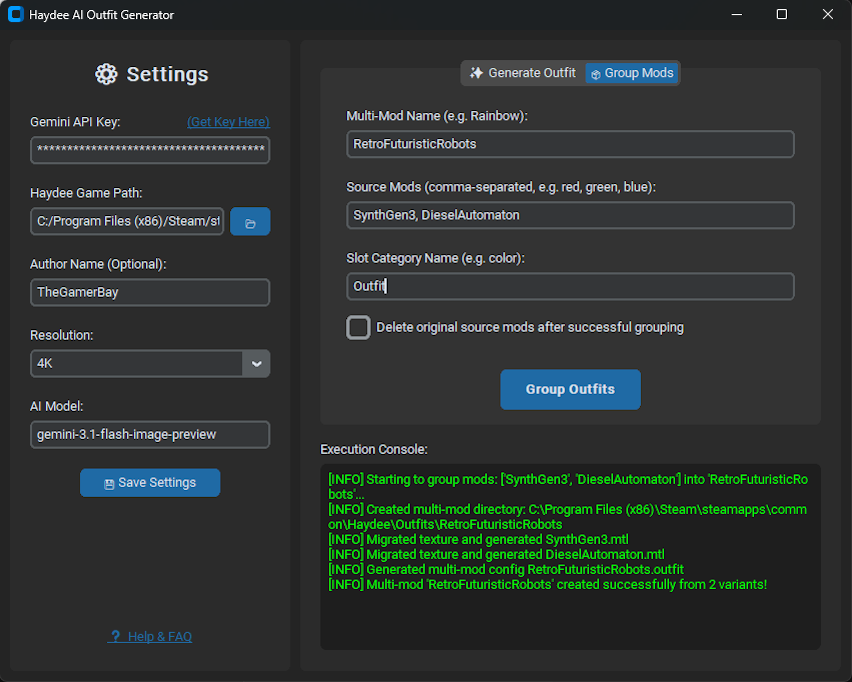
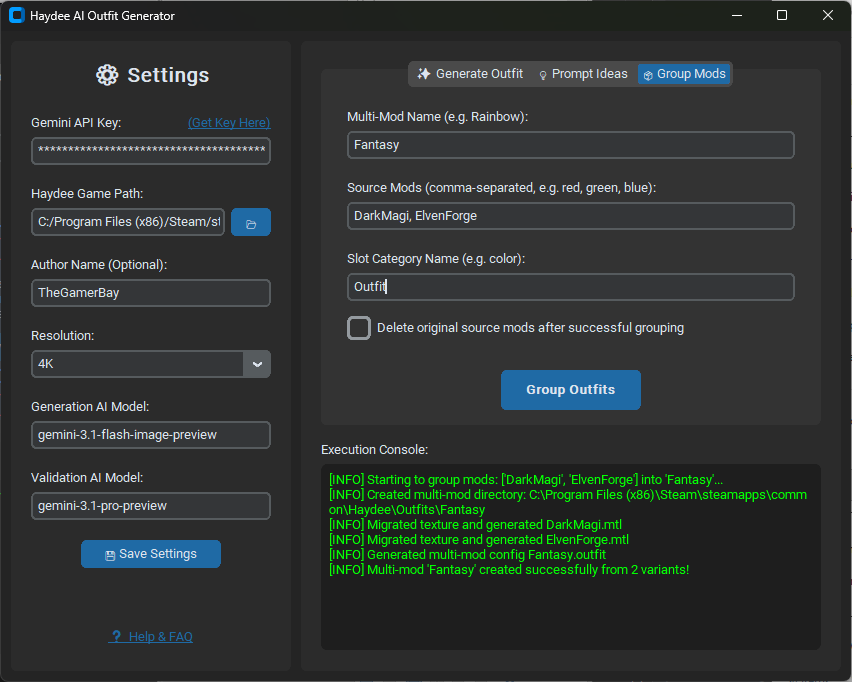
feat(app): add QA validation feedback loop and update GUI previews in README
- Introduce a QA feedback loop to validate AI-generated textures, retrying up to 3 times if issues are detected.
- Add "Validation AI Model" configuration to settings with default value.
- Update README and translated versions to reflect validation workflow and new "Prompt Ideas" preview image.
- Extend tests to cover texture validation logic.

diff --git a/src/app.py b/src/app.py
@@ -539,7 +539,42 @@ Do not include any other text, markdown formatting, or explanation. Just the raw
                     if not base_dds.exists():
                         raise FileNotFoundError(f"Base texture not found at {base_dds}. Please verify your game path.")
                     ImageProcessor.dds_to_png(base_dds, base_png)
-                    client.generate_texture(base_image_path=base_png, style=style, output_path=generated_d_png)
+                    
+                    # --- ДОБАВЛЕННЫЙ ЦИКЛ ВАЛИДАЦИИ (QA FEEDBACK LOOP) ---
+                    max_attempts = 3
+                    attempt = 1
+                    feedback = None
+                    is_valid = False
+
+                    while attempt <= max_attempts:
+                        self.logger.info(f"Generation attempt {attempt}/{max_attempts}...")
+                        
+                        client.generate_texture(
+                            base_image_path=base_png, 
+                            style=style, 
+                            output_path=generated_d_png,
+                            previous_feedback=feedback
+                        )
+
+                        validation_result = client.validate_texture(
+                            base_image_path=base_png,
+                            generated_image_path=generated_d_png, 
+                            style=style
+                        )
+
+                        if validation_result.is_valid:
+                            self.logger.info("✅ Texture passed QA validation!")
+                            is_valid = True
+                            break
+                        else:
+                            self.logger.warning(f"❌ Texture validation failed: {validation_result.feedback}")
+                            feedback = validation_result.feedback
+                            attempt += 1
+
+                    if not is_valid:
+                        self.logger.error(f"⚠ Max retries ({max_attempts}) reached. Proceeding with the last generated texture, but it may contain structural flaws.")
+                    # -----------------------------------------------------
+
                     ImageProcessor.img_to_dds(generated_d_png, final_d_dds, resolution=res)
                 else:
                     if not final_d_dds.exists():

diff --git a/tests/test_app.py b/tests/test_app.py
@@ -275,6 +275,7 @@ def test_run_generator_thread_success(app, mocker):
     
     # Validation
     mock_client_instance.generate_texture.assert_called_once()
+    mock_client_instance.validate_texture.assert_called_once()
     assert mock_after.called
 
 def test_run_generator_thread_failure(app, mocker):

diff --git a/README.md b/README.md
@@ -12,8 +12,9 @@ A modern graphical user interface for the [Haydee AI Outfit Generator](https://g
 
 ### 📥 [Download the latest HaydeeOutfitGenerator.exe here](https://github.com/thegamerbay/haydee-ai-outfit-generator-gui/releases)
 
-![GUI Generate Outfit Preview](assets/gui-generate-outfit.png)
-![GUI Group Mods Preview](assets/gui-group-mods.png)
+<img src="assets/gui-generate-outfit.png" width="852" alt="GUI Generate Outfit Preview">
+<img src="assets/gui-prompt-ideas.png" width="852" alt="GUI Prompt Ideas Preview">
+<img src="assets/gui-group-mods.png" width="852" alt="GUI Group Mods Preview">
 
 ## 🖼 Generated Examples
 
@@ -35,6 +36,7 @@ Check out what you can create! The following outfits were generated using this t
 - **Three Unique Workflows**: Seamlessly switch between generating brand new outfits via AI, getting creative inspiration for your styles, and grouping your existing mods into single multi-mods.
 - **Granular Generation Control**: Individually toggle the generation of Diffuse (Color), Specular (Material/Gloss), and Normal (3D Bump) maps to save API requests or regenerate specific parts.
 - **Customizable AI Models**: Choose exactly which Gemini AI model processes your request (e.g., `gemini-3.1-flash-image-preview` or other supported models).
+- **Quality Assurance Loop**: Automatically validates the AI-generated textures for structural flaws (like incorrect anatomy or seams) using a more advanced model, and sends feedback to the AI to re-draw it up to 3 times before saving.
 - **Network Resilience**: Built-in 10-minute SDK timeout patches and automatic 3-attempt API retry loops ensure your generations don't fail due to temporary Google API server congestion or `503/504 Deadline Exceeded` errors.
 - **No Terminal Required**: Configures all paths and handles logging automatically.
 - **Asynchronous Processing**: The UI remains responsive while the outfit is being generated via AI or while mods are being grouped.
@@ -49,6 +51,7 @@ Check out what you can create! The following outfits were generated using this t
    - Path to your **Haydee** game installation directory.
    - Your **Author Name** (Optional, applied to all generated or grouped mods).
    - Your **AI Model** (Defaults to `gemini-3.1-flash-image-preview`).
+   - Your **Validation AI Model** (Defaults to `gemini-3.1-pro-preview`).
 4. Click **Save Settings**.
 5. Choose your workflow tab:
    - **✨ Generate Outfit**: Enter a unique mod name, a descriptive style prompt, and toggle which textures you want to generate (Diffuse, Specular, or Normal) before starting.

diff --git a/README.th.md b/README.th.md
@@ -12,8 +12,9 @@
 
 ### 📥 [ดาวน์โหลด HaydeeOutfitGenerator.exe เวอร์ชันล่าสุดได้ที่นี่](https://github.com/thegamerbay/haydee-ai-outfit-generator-gui/releases)
 
-![GUI Generate Outfit Preview](assets/gui-generate-outfit.png)
-![GUI Group Mods Preview](assets/gui-group-mods.png)
+<img src="assets/gui-generate-outfit.png" width="852" alt="GUI Generate Outfit Preview">
+<img src="assets/gui-prompt-ideas.png" width="852" alt="GUI Prompt Ideas Preview">
+<img src="assets/gui-group-mods.png" width="852" alt="GUI Group Mods Preview">
 
 ## 🖼 ตัวอย่างที่ถูกสร้างขึ้น
 

diff --git a/README.es.md b/README.es.md
@@ -12,8 +12,9 @@ Una interfaz gráfica de usuario moderna para la biblioteca [Haydee AI Outfit Ge
 
 ### 📥 [Descarga la última versión de HaydeeOutfitGenerator.exe aquí](https://github.com/thegamerbay/haydee-ai-outfit-generator-gui/releases)
 
-![GUI Generate Outfit Preview](assets/gui-generate-outfit.png)
-![GUI Group Mods Preview](assets/gui-group-mods.png)
+<img src="assets/gui-generate-outfit.png" width="852" alt="GUI Generate Outfit Preview">
+<img src="assets/gui-prompt-ideas.png" width="852" alt="GUI Prompt Ideas Preview">
+<img src="assets/gui-group-mods.png" width="852" alt="GUI Group Mods Preview">
 
 ## 🖼 Ejemplos Generados
 

diff --git a/README.ru.md b/README.ru.md
@@ -12,8 +12,9 @@
 
 ### 📥 [Скачать последнюю версию HaydeeOutfitGenerator.exe можно здесь](https://github.com/thegamerbay/haydee-ai-outfit-generator-gui/releases)
 
-![GUI Generate Outfit Preview](assets/gui-generate-outfit.png)
-![GUI Group Mods Preview](assets/gui-group-mods.png)
+<img src="assets/gui-generate-outfit.png" width="852" alt="GUI Generate Outfit Preview">
+<img src="assets/gui-prompt-ideas.png" width="852" alt="GUI Prompt Ideas Preview">
+<img src="assets/gui-group-mods.png" width="852" alt="GUI Group Mods Preview">
 
 ## 🖼 Примеры генерации
 

diff --git a/README.ar.md b/README.ar.md
@@ -12,8 +12,9 @@
 
 ### 📥 [قم بتنزيل أحدث إصدار من HaydeeOutfitGenerator.exe من هنا](https://github.com/thegamerbay/haydee-ai-outfit-generator-gui/releases)
 
-![GUI Generate Outfit Preview](assets/gui-generate-outfit.png)
-![GUI Group Mods Preview](assets/gui-group-mods.png)
+<img src="assets/gui-generate-outfit.png" width="852" alt="GUI Generate Outfit Preview">
+<img src="assets/gui-prompt-ideas.png" width="852" alt="GUI Prompt Ideas Preview">
+<img src="assets/gui-group-mods.png" width="852" alt="GUI Group Mods Preview">
 
 ## 🖼 أمثلة تم إنشاؤها
 

diff --git a/README.zh.md b/README.zh.md
@@ -12,8 +12,9 @@
 
 ### 📥 [点击此处下载最新的 HaydeeOutfitGenerator.exe](https://github.com/thegamerbay/haydee-ai-outfit-generator-gui/releases)
 
-![GUI Generate Outfit Preview](assets/gui-generate-outfit.png)
-![GUI Group Mods Preview](assets/gui-group-mods.png)
+<img src="assets/gui-generate-outfit.png" width="852" alt="GUI Generate Outfit Preview">
+<img src="assets/gui-prompt-ideas.png" width="852" alt="GUI Prompt Ideas Preview">
+<img src="assets/gui-group-mods.png" width="852" alt="GUI Group Mods Preview">
 
 ## 🖼 生成示例
 
